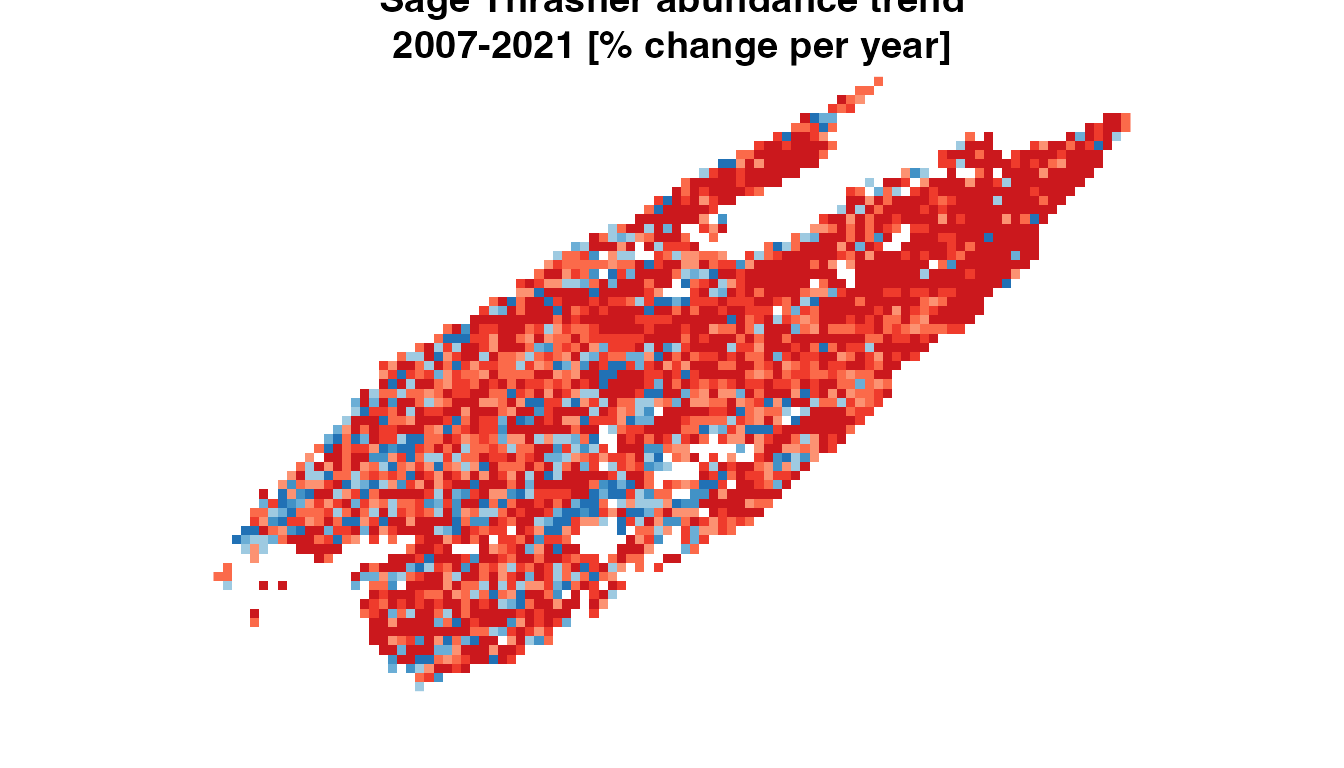
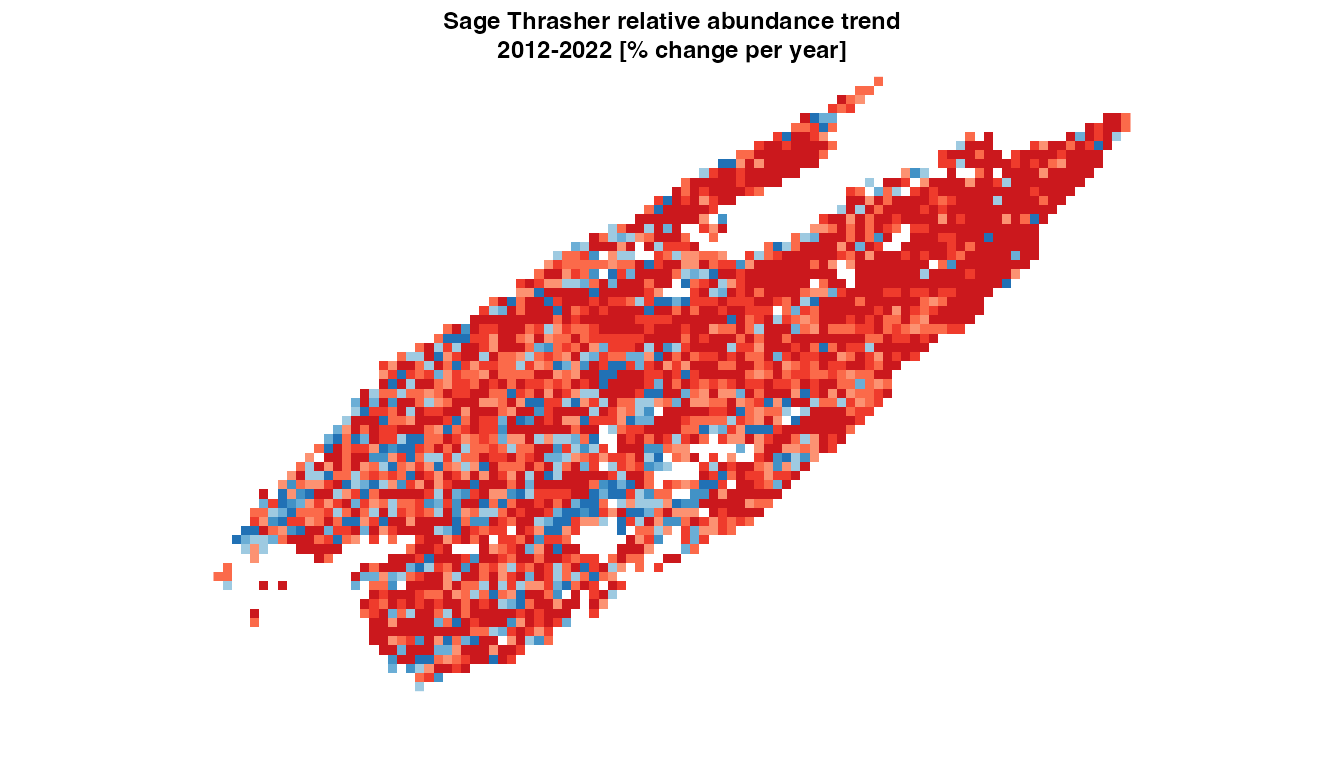
typos

Changed region(s): [[0.2812, 0.0, 0.7188, 0.0938]]

diff --git a/docs/index.html b/docs/index.html
@@ -59,7 +59,7 @@
       <a href="articles/status.html">Introduction to eBird Status Data Products</a>
     </li>
     <li>
-      <a href="articles/rasters.html">Working with Raster Data</a>
+      <a href="articles/rasters.html">eBird Status Data Products Applications</a>
     </li>
     <li>
       <a href="articles/trends.html">eBird Trends Data Products</a>
@@ -180,12 +180,6 @@ Fink, D., T. Auer, A. Johnston, M. Strimas-Mackey, S. Ligocki, O. Robinson, W. H
 <span><span class="co"># the date that each raster layer corresponds to is stored within the labels</span></span>
 <span><span class="va">weeks</span> <span class="op">&lt;-</span> <span class="fu"><a href="https://rdrr.io/r/base/as.Date.html" class="external-link">as.Date</a></span><span class="op">(</span><span class="fu"><a href="https://rdrr.io/r/base/names.html" class="external-link">names</a></span><span class="op">(</span><span class="va">abd</span><span class="op">)</span><span class="op">)</span></span>
 <span><span class="fu"><a href="https://www.math.uzh.ch/pages/spam/reference/print.html" class="external-link">print</a></span><span class="op">(</span><span class="va">weeks</span><span class="op">)</span></span>
-<span><span class="co">#&gt;  [1] "2022-01-04" "2022-01-11" "2022-01-18" "2022-01-25" "2022-02-01" "2022-02-08" "2022-02-15" "2022-02-22" "2022-03-01"</span></span>
-<span><span class="co">#&gt; [10] "2022-03-08" "2022-03-15" "2022-03-22" "2022-03-29" "2022-04-05" "2022-04-12" "2022-04-19" "2022-04-26" "2022-05-03"</span></span>
-<span><span class="co">#&gt; [19] "2022-05-10" "2022-05-17" "2022-05-24" "2022-05-31" "2022-06-07" "2022-06-14" "2022-06-21" "2022-06-28" "2022-07-05"</span></span>
-<span><span class="co">#&gt; [28] "2022-07-12" "2022-07-19" "2022-07-26" "2022-08-02" "2022-08-09" "2022-08-16" "2022-08-23" "2022-08-30" "2022-09-06"</span></span>
-<span><span class="co">#&gt; [37] "2022-09-13" "2022-09-20" "2022-09-27" "2022-10-04" "2022-10-11" "2022-10-18" "2022-10-25" "2022-11-01" "2022-11-08"</span></span>
-<span><span class="co">#&gt; [46] "2022-11-15" "2022-11-22" "2022-11-29" "2022-12-06" "2022-12-13" "2022-12-20" "2022-12-27"</span></span>
 <span></span>
 <span><span class="co"># select a week in the middle of the year</span></span>
 <span><span class="va">abd</span> <span class="op">&lt;-</span> <span class="va">abd</span><span class="op">[[</span><span class="fl">26</span><span class="op">]</span><span class="op">]</span></span>
@@ -231,7 +225,6 @@ Fink, D., T. Auer, A. Johnston, M. Strimas-Mackey, S. Ligocki, O. Robinson, W. H
 <span>           axis.args <span class="op">=</span> <span class="fu"><a href="https://rdrr.io/r/base/list.html" class="external-link">list</a></span><span class="op">(</span>at <span class="op">=</span> <span class="fu"><a href="https://rdrr.io/r/base/c.html" class="external-link">c</a></span><span class="op">(</span><span class="fl">0</span>, <span class="fl">0.5</span>, <span class="fl">1</span><span class="op">)</span>, </span>
 <span>                            labels <span class="op">=</span> <span class="fu"><a href="https://rdrr.io/r/base/Round.html" class="external-link">round</a></span><span class="op">(</span><span class="va">labels</span>, <span class="fl">2</span><span class="op">)</span>,</span>
 <span>                            cex.axis <span class="op">=</span> <span class="fl">0.9</span>, lwd.ticks <span class="op">=</span> <span class="fl">0</span><span class="op">)</span><span class="op">)</span></span></code></pre></div>
-<p><img src="reference/figures/README-quick_start-1.png" width="100%"></p>
 </div>
 </div>
   </div>

diff --git a/docs/articles/trends.html b/docs/articles/trends.html
@@ -53,7 +53,7 @@
       <a href="../articles/status.html">Introduction to eBird Status Data Products</a>
     </li>
     <li>
-      <a href="../articles/rasters.html">Working with Raster Data</a>
+      <a href="../articles/rasters.html">eBird Status Data Products Applications</a>
     </li>
     <li>
       <a href="../articles/trends.html">eBird Trends Data Products</a>
@@ -364,7 +364,8 @@ cumulative trend rather than the annual trend.</p>
 <span><span class="co"># make a simple map</span></span>
 <span><span class="fu"><a href="https://rdrr.io/pkg/terra/man/plot.html" class="external-link">plot</a></span><span class="op">(</span><span class="va">ppy_raster</span><span class="op">[[</span><span class="st">"abd_ppy"</span><span class="op">]</span><span class="op">]</span>, </span>
 <span>     col <span class="op">=</span> <span class="va">pal</span>, breaks <span class="op">=</span>  <span class="va">breaks</span>,</span>
-<span>     main <span class="op">=</span> <span class="st">"Sage Thrasher abundance trend\n2007-2021 [% change per year]"</span>,</span>
+<span>     main <span class="op">=</span> <span class="st">"Sage Thrasher relative abundance trend\n2012-2022 [% change per year]"</span>,</span>
+<span>     cex.main <span class="op">=</span> <span class="fl">0.75</span>,</span>
 <span>     axes <span class="op">=</span> <span class="cn">FALSE</span>, legend <span class="op">=</span> <span class="cn">FALSE</span><span class="op">)</span></span></code></pre></div>
 <p><img src="trends_files/figure-html/spatial-raster-map-1.png" width="100%" style="display: block; margin: auto;"></p>
 </div>

diff --git a/docs/news/index.html b/docs/news/index.html
@@ -35,7 +35,7 @@
       <a href="../articles/status.html">Introduction to eBird Status Data Products</a>
     </li>
     <li>
-      <a href="../articles/rasters.html">Working with Raster Data</a>
+      <a href="../articles/rasters.html">eBird Status Data Products Applications</a>
     </li>
     <li>
       <a href="../articles/trends.html">eBird Trends Data Products</a>
@@ -70,10 +70,11 @@
     </div>
 
     <div class="section level2">
-<h2 class="page-header" data-toc-text="2.2021.4" id="ebirdst-220214">ebirdst 2.2021.4<a class="anchor" aria-label="anchor" href="#ebirdst-220214"></a></h2>
-<ul><li>trends data released!</li>
-<li>performance improvements to <code>ebirdst_habitat()</code>
-</li>
+<h2 class="page-header" data-toc-text="3.2022.0" id="ebirdst-320220">ebirdst 3.2022.0<a class="anchor" aria-label="anchor" href="#ebirdst-320220"></a></h2>
+<ul><li>new 2022 status data and trends data released for the first time!</li>
+<li>major overhaul to allow more targeting downloading of data</li>
+<li>all stixel-level results (PPMS/PIs/PDs) removed, replaced with spatialized raster versions</li>
+<li>no more restart required after updating API key</li>
 <li>change package-level documentation as per roxygen2 suggestions</li>
 </ul></div>
     <div class="section level2">

diff --git a/docs/404.html b/docs/404.html
@@ -52,7 +52,7 @@
       <a href="https://ebird.github.io/ebirdst/articles/status.html">Introduction to eBird Status Data Products</a>
     </li>
     <li>
-      <a href="https://ebird.github.io/ebirdst/articles/rasters.html">Working with Raster Data</a>
+      <a href="https://ebird.github.io/ebirdst/articles/rasters.html">eBird Status Data Products Applications</a>
     </li>
     <li>
       <a href="https://ebird.github.io/ebirdst/articles/trends.html">eBird Trends Data Products</a>

diff --git a/docs/reference/assign_to_grid.html b/docs/reference/assign_to_grid.html
@@ -36,7 +36,7 @@ with given dimensions, and return the grid cell index for each point."><!-- math
       <a href="../articles/status.html">Introduction to eBird Status Data Products</a>
     </li>
     <li>
-      <a href="../articles/rasters.html">Working with Raster Data</a>
+      <a href="../articles/rasters.html">eBird Status Data Products Applications</a>
     </li>
     <li>
       <a href="../articles/trends.html">eBird Trends Data Products</a>

diff --git a/docs/reference/calculate_mcc_f1.html b/docs/reference/calculate_mcc_f1.html
@@ -36,7 +36,7 @@ coefficient (MCC) and the F1 score."><!-- mathjax --><script src="https://cdnjs.
       <a href="../articles/status.html">Introduction to eBird Status Data Products</a>
     </li>
     <li>
-      <a href="../articles/rasters.html">Working with Raster Data</a>
+      <a href="../articles/rasters.html">eBird Status Data Products Applications</a>
     </li>
     <li>
       <a href="../articles/trends.html">eBird Trends Data Products</a>

diff --git a/docs/reference/ebirdst-package.html b/docs/reference/ebirdst-package.html
@@ -37,7 +37,7 @@ Data Products — ebirdst-package"><meta property="og:description" content="Tool
       <a href="../articles/status.html">Introduction to eBird Status Data Products</a>
     </li>
     <li>
-      <a href="../articles/rasters.html">Working with Raster Data</a>
+      <a href="../articles/rasters.html">eBird Status Data Products Applications</a>
     </li>
     <li>
       <a href="../articles/trends.html">eBird Trends Data Products</a>

diff --git a/docs/reference/ebirdst_data_dir.html b/docs/reference/ebirdst_data_dir.html
@@ -38,7 +38,7 @@ tools::R_user_dir("ebirdst", which = "data") will be used.'><!-- mathjax --><scr
       <a href="../articles/status.html">Introduction to eBird Status Data Products</a>
     </li>
     <li>
-      <a href="../articles/rasters.html">Working with Raster Data</a>
+      <a href="../articles/rasters.html">eBird Status Data Products Applications</a>
     </li>
     <li>
       <a href="../articles/trends.html">eBird Trends Data Products</a>

diff --git a/docs/reference/ebirdst_download_status.html b/docs/reference/ebirdst_download_status.html
@@ -42,7 +42,7 @@ accessible without an access key."><!-- mathjax --><script src="https://cdnjs.cl
       <a href="../articles/status.html">Introduction to eBird Status Data Products</a>
     </li>
     <li>
-      <a href="../articles/rasters.html">Working with Raster Data</a>
+      <a href="../articles/rasters.html">eBird Status Data Products Applications</a>
     </li>
     <li>
       <a href="../articles/trends.html">eBird Trends Data Products</a>

diff --git a/docs/reference/ebirdst_download_trends.html b/docs/reference/ebirdst_download_trends.html
@@ -41,7 +41,7 @@ an access key."><!-- mathjax --><script src="https://cdnjs.cloudflare.com/ajax/l
       <a href="../articles/status.html">Introduction to eBird Status Data Products</a>
     </li>
     <li>
-      <a href="../articles/rasters.html">Working with Raster Data</a>
+      <a href="../articles/rasters.html">eBird Status Data Products Applications</a>
     </li>
     <li>
       <a href="../articles/trends.html">eBird Trends Data Products</a>

diff --git a/docs/reference/ebirdst_palettes.html b/docs/reference/ebirdst_palettes.html
@@ -36,7 +36,7 @@ abundance and trends maps."><!-- mathjax --><script src="https://cdnjs.cloudflar
       <a href="../articles/status.html">Introduction to eBird Status Data Products</a>
     </li>
     <li>
-      <a href="../articles/rasters.html">Working with Raster Data</a>
+      <a href="../articles/rasters.html">eBird Status Data Products Applications</a>
     </li>
     <li>
       <a href="../articles/trends.html">eBird Trends Data Products</a>

diff --git a/docs/reference/ebirdst_runs.html b/docs/reference/ebirdst_runs.html
@@ -37,7 +37,7 @@ Trends results for each species."><!-- mathjax --><script src="https://cdnjs.clo
       <a href="../articles/status.html">Introduction to eBird Status Data Products</a>
     </li>
     <li>
-      <a href="../articles/rasters.html">Working with Raster Data</a>
+      <a href="../articles/rasters.html">eBird Status Data Products Applications</a>
     </li>
     <li>
       <a href="../articles/trends.html">eBird Trends Data Products</a>
